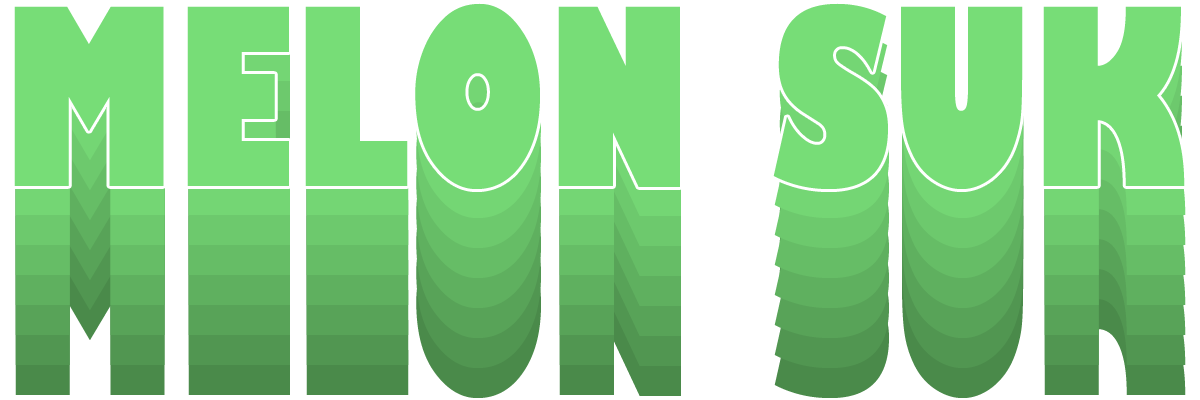
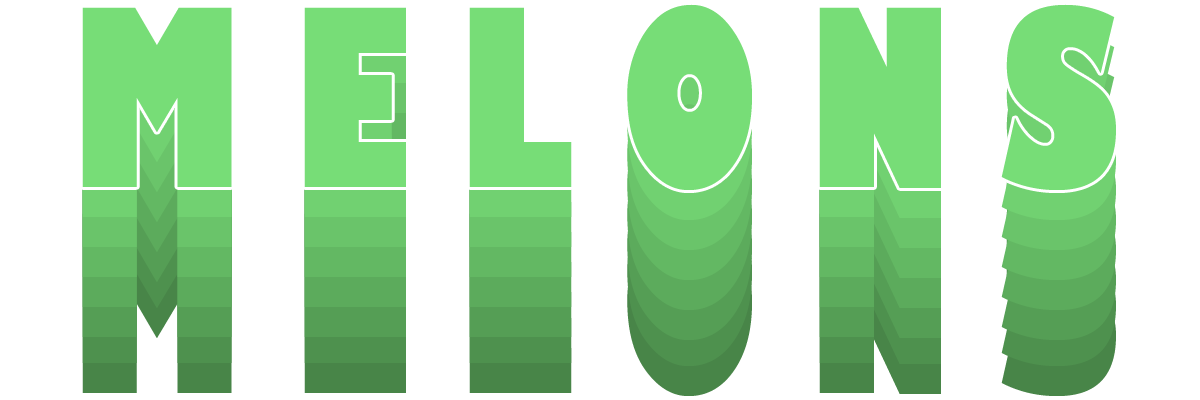
Updated Melons
Tidied GUI

diff --git a/script.js b/script.js
@@ -12,7 +12,6 @@ var diff = 0;
 var tool = 0;
 //Number of melons harvested
 var melons = 0;
-var diffButtons;
 
 
 window.onload = function(){
@@ -26,9 +25,6 @@ window.onload = function(){
 	
 	//Populate patches array
 	initPatches();
-	
-	//Populate diff buttons
-	diffButtons = document.getElementsByClassName("diff");
 	
 	//KEY PRESSES
 	//Changing cursor
@@ -64,14 +60,14 @@ window.onload = function(){
 	
 	//Clicking patches
 	cnv.addEventListener("click", patchClick);
-	//Clicking diff buttons
+	//Clicking difficulty buttons
 	document.getElementById("easy").addEventListener("click", function(){
 		diff = 0;
 		updateAllPatchTimes(diff);
 		document.getElementById("easy").style.background = "rgba(20,20,20,0.2)";
 		document.getElementById("medium").style.background = "transparent";
 		document.getElementById("hard").style.background = "transparent";
-		document.getElementById("elon").style.background = "transparent";
+		document.getElementById("farmer").style.background = "transparent";
 	});
 	document.getElementById("medium").addEventListener("click", function(){
 		diff = 1;
@@ -79,7 +75,7 @@ window.onload = function(){
 		document.getElementById("medium").style.background = "rgba(20,20,20,0.2)";
 		document.getElementById("easy").style.background = "transparent";
 		document.getElementById("hard").style.background = "transparent";
-		document.getElementById("elon").style.background = "transparent";
+		document.getElementById("farmer").style.background = "transparent";
 	});
 	document.getElementById("hard").addEventListener("click", function(){
 		diff = 2;
@@ -87,15 +83,22 @@ window.onload = function(){
 		document.getElementById("hard").style.background = "rgba(20,20,20,0.2)";
 		document.getElementById("medium").style.background = "transparent";
 		document.getElementById("easy").style.background = "transparent";
-		document.getElementById("elon").style.background = "transparent";
+		document.getElementById("farmer").style.background = "transparent";
 	});
-	document.getElementById("elon").addEventListener("click", function(){
+	document.getElementById("farmer").addEventListener("click", function(){
 		diff = 3;
 		updateAllPatchTimes(diff);
-		document.getElementById("elon").style.background = "rgba(20,20,20,0.2)";
+		document.getElementById("farmer").style.background = "rgba(20,20,20,0.2)";
 		document.getElementById("medium").style.background = "transparent";
 		document.getElementById("hard").style.background = "transparent";
 		document.getElementById("easy").style.background = "transparent";
+	});
+	//Clicking footer buttons
+	document.getElementById("instagram").addEventListener("click", function(){
+		window.open('http://www.instagram.com/sean_bickle3', '_blank');
+	});
+	document.getElementById("linkedin").addEventListener("click", function(){
+		window.open('http://www.linkedin.com/in/sean-bickle-6255a511b', '_blank');
 	});
 	
 	//Game Loop
@@ -112,17 +115,20 @@ function refresh(){
 	document.getElementById("meloncount").innerHTML = melons;
 }
 
+//Draw rectangle
 function drawRect(x, y, h, w, colour){
 	ctx.fillStyle = colour;
 	ctx.fillRect(x, y, w, h);
 }
 
+//Generate random int between range 
 function ranRange(minVal, maxVal){
 	return Math.floor(Math.random() * (maxVal - minVal)) + minVal;
 }
 
 function initPatches(){
-	var counter = 0;
+	//Current patch
+	var index = 0;
 	//Min & max bounds of time until grown
 	var minTime;
 	var maxTime;
@@ -152,14 +158,18 @@ function initPatches(){
 	
 	//4 rows of patches
 	for(var i = 0; i < 1200; i+=300){
+		//4 columns of patches
 		for(var j = 0; j < 1200; j+=300){
-			patches[counter] = new Patch(i, j, ranRange(minTime, maxTime));
-			counter++
+			//Create new patch at x=i, y=j, with randome growth time depending on diff
+			patches[index] = new Patch(i, j, ranRange(minTime, maxTime));
+			index++
 		}
 	}
 }
 
+//Determine which patch was clicked
 function patchClick(e){
+	//Set mouse x & y
 	var rectCnv = cnv.getBoundingClientRect()
 	var mousex = e.clientX - rectCnv.left;
 	var mousey = e.clientY - rectCnv.top;
@@ -168,11 +178,15 @@ function patchClick(e){
 	for(var i = 0; i < patches.length; i++){
 		//Determine which was clicked
 		if((patches[i].x <= mousex && patches[i].x + patches[i].w >= mousex) && (patches[i].y <= mousey && patches[i].y + patches[i].w >= mousey)){
+			//Apply tool to that patch
 			patches[i].modify(tool);
+			//Stop searching for clicked patch
+			break;
 		}
 	}
 }
 
+//Reset time for all patches to grow one melon
 function updateAllPatchTimes(diff){
 	//Min & max bounds of time until grown
 	var minTime;
@@ -194,45 +208,14 @@ function updateAllPatchTimes(diff){
 			minTime = 3;
 			maxTime = 15;
 			break;
-		//Expert mode
+		//Farmer mode
 		case(3):
-			minTime = 5184000;
-			maxTime = 6912000;
+			minTime = 1296000;
+			maxTime = 1728000;
 			break;
 	}
 	//Update all patches with their new vals
 	for(var i = 0; i < patches.length; i++){
 		patches[i].timeToGrow = ranRange(minTime, maxTime);
 	}
-}
-
-function updateSinglePatchTime(index){
-	//Min & max bounds of time until grown
-	var minTime;
-	var maxTime;
-	
-	switch(diff){
-		//Easy mode
-		case(0):
-			minTime = 20;
-			maxTime = 60;
-			break;
-		//Medium mode
-		case(1):
-			minTime = 10;
-			maxTime = 30;
-			break;
-		//Hard mode
-		case(2):
-			minTime = 3;
-			maxTime = 15;
-			break;
-		//Expert mode
-		case(3):
-			minTime = 5184000;
-			maxTime = 6912000;
-			break;
-	}
-	
-	patches[index].timeToGrow = ranRange(minTime, maxTime);
 }

diff --git a/style.css b/style.css
@@ -1,15 +1,14 @@
 body{
 	margin: 0px;
 	user-select: none;
-	background: rgb(119, 221, 119);
-	overflow-x: hidden;
+	background: rgb(20,20,20);
 }
 
 #back_grass{
-	height: 1100px;
+	height: 1200px;
 	width: 100%;
 	position: absolute;
-	top: 980px;
+	top: 880px;
 	background-color: rgb(119, 221, 119);
 }
 
@@ -19,6 +18,7 @@ body{
 	position: absolute;
 	top: 0px;
 	background-color: rgb(30, 158, 255);
+	overflow-x: hidden;
 }
 
 #cloud{
@@ -27,7 +27,7 @@ body{
 	position: absolute;
 	left: 100%;
 	top: 250px;
-	background-image: url('res/cloud2.png');
+	background-image: url('res/cloud.png');
 	background-position: center;
 	background-repeat: no-repeat;
 	animation: cloud 60s linear 30s infinite;
@@ -51,7 +51,7 @@ body{
 	width: 100%;
 	position: absolute;
 	top: 0px;
-	background-image: url('res/title2.png');
+	background-image: url('res/title.png');
 	background-position: center;
 	background-repeat: no-repeat;
 }
@@ -115,22 +115,13 @@ body{
 		top: -50px;
 		text-shadow: 0px 5px 3px rgb(20,20,20), 0px -5px 3px rgb(20,20,20);
 	}
-	#name{
-		width: 600px;
-		position: absolute;
-		bottom: 0px;
-		left: 0px;
-		text-shadow: 0px 4px 1px rgb(100,150,100);
+	.subtitle#footer{
+		width: 500px;
+		font-size: 20px;
+		line-height: 38px;
+		font-weight: normal;
+		text-shadow: 0px 2px 1px rgb(100,150,100);
 		text-align: left;
-		padding-left: 10px;
-	}
-	#CanJam{
-		width: 300px;
-		position: absolute;
-		bottom: 0px;
-		right: 0px;
-		text-shadow: 0px 4px 1px rgb(100,150,100);
-		text-align: right;
 		padding-right: 10px;
 	}
 	
@@ -139,7 +130,6 @@ body{
 	width: 1200px;
 	position: absolute;
 	top: 780px;
-	z-index: 1000;
 }
 
 .diff{
@@ -162,4 +152,41 @@ body{
 	}
 	#easy{
 		background-color: rgba(20,20,20,0.2);
+	}
+	
+#footer_container{
+	height: 40px;
+	width: 100%;
+	position: absolute;
+	background: rgb(20,20,20);
+	top: 2060px;
+}
+
+#footer{
+	height: 100%;
+	width: 1200px;
+	position: absolute;
+	margin-left: 50%;
+	left: -600px;
+	padding-left: 10px;
+}
+
+.footer_buttons{
+	height: 30px;
+	width: 30px;
+	position: absolute;
+	border-radius: 15px;
+	top: 5px;
+}
+	.footer_buttons:hover{
+		background: rgb(240,240,240);
+		cursor: pointer;
+	}
+	#linkedin{
+		right: 10px;
+		background: url('res/linkedin.png');
+	}
+	#instagram{
+		right: 50px;
+		background: url('res/instagram.png');
 	}

diff --git a/index.html b/index.html
@@ -3,17 +3,21 @@
 <head>
 	<link rel="stylesheet" type="text/css" href="style.css">
 	<link href="https://fonts.googleapis.com/css?family=VT323" rel="stylesheet">
+	<title>Melons</title>
+	<link rel="icon" href="res/favicon.ico" type="image"/>
 </head>
 <body>
-	<div id="back_grass">
-		<div class="subtitle" id="name">Created by Sean Bickle</div>
-		<div class="subtitle" id="CanJam">CanJam 2018</div>
-	</div>
+	<!--Background-->
+	<div id="back_grass"></div>
 	<div id="back_sky">
 		<div id="cloud"></div>
 	</div>
+	
+	<!--Main Body-->
 	<div id="container">
 		<div id="title"></div>
+		
+		<!-- Farming Tools -->
 		<div id="items_container">
 			<div class="items" id="melons">
 				<div class="icon" id="melonIcon">
@@ -34,13 +38,24 @@
 				<div class="subtitle">CLIPPERS(C)</div>
 			</div>
 		</div>
+		
+		<!-- Difficulty Buttons -->
 		<div id="diff_container">
 			<div class="diff" id="easy" style="left: 0%;">EASY</div>
 			<div class="diff" id="medium" style="left: 25%;">MEDIUM</div>
 			<div class="diff" id="hard" style="left: 50%;">HARD</div>
-			<div class="diff" id="elon" style="left: 75%;">ELON</div>
+			<div class="diff" id="farmer" style="left: 75%;">FARMER</div>
 		</div>
 		<canvas id="cnv" height="1200" width="1200" style="position: absolute; bottom:0px;"></canvas>
+	</div>
+	
+	<!-- Footer  -->
+	<div id="footer_container">
+		<div id="footer">
+			<div class="subtitle" id="footer">Created by Sean Bickle | CanJam 2018 |</div>
+			<div class="footer_buttons" id="linkedin"></div>	
+			<div class="footer_buttons" id="instagram"></div>
+		</div>
 	</div>
 	
 	

diff --git a/patch.js b/patch.js
@@ -51,6 +51,7 @@ class Patch{
 	update(){
 		//Get seconds that have passed
 		var currentTime = Math.trunc(performance.now() / 1000);
+		//Check if a timeToGrow number of seconds have passed; don't update if melon is dead
 		if(this.lastUpdate != currentTime && (currentTime - this.lastUpdate) % this.timeToGrow == 0 && this.stage < 5){
 			//Increment stage
 			++this.stage;
@@ -59,6 +60,7 @@ class Patch{
 		}
 	}
 	
+	//Apply chosen tool to patch
 	modify(tool){
 		//Seeds used
 		if(tool == 1 && this.stage < 1){
@@ -68,10 +70,10 @@ class Patch{
 		
 		//Clippers used
 		if(tool == 2 && this.stage == 4){
-			//Set score based on how many other melons are active
+			//Set score based on how many other melons are active + watered
 			var score = 0;
 			for(var i = 0; i < patches.length; i++){
-				if(patches[i].stage > 0) ++score;
+				if(patches[i].watered && patches[i].stage != 5) ++score;
 			}
 			melons += score;
 			//Reset patch
@@ -113,12 +115,13 @@ class Patch{
 				minTime = 3;
 				maxTime = 10;
 				break;
-			//Expert mode
+			//Farmer mode
 			case(3):
-				minTime = 5184000;
-				maxTime = 6912000;
+				minTime = 1296000;
+				maxTime = 1728000;
 				break;
 		}
+		//Set new time to grow
 		this.timeToGrow = ranRange(minTime, maxTime);
 	}
 }
